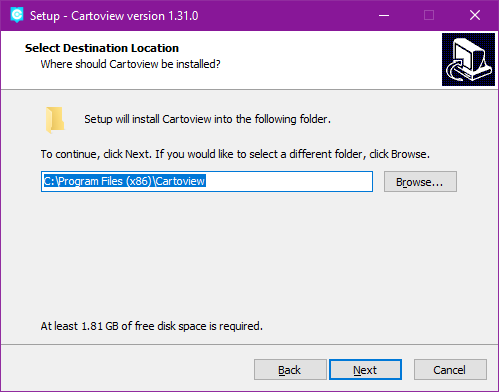
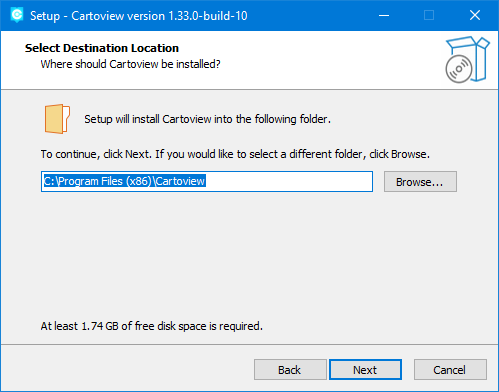
Update windows installer docs

Changed region(s): [[0.0, 0.0, 1.0, 1.0], [0.0902, 0.2449, 0.1503, 0.3673], [0.1804, 0.7959, 0.2104, 0.8571]]

diff --git a/docs/installation/windows-installer.md b/docs/installation/windows-installer.md
@@ -15,16 +15,30 @@ The installer can be requested and downloaded from [here](https://cartoview.net/
 
 You just need to provide your information, select a version of Cartoview to download, and you should get an e-mail with the installer download link.
 
-!!! note
-    It's recommended to stick with the latest version which is selected by default.
-
-Download the installer on your Windows machine. You should get an executable file like that, **Cartoview_1.31.0.exe**.
+Download the installer on your Windows machine. You should get an executable file like that, **Cartoview_1.33.0.exe**.
 
 ### Installer Steps
 Proceed with the steps to install and run Cartoview.
 
 !!! note
     It's recommended to stick with the default configurations during this installation but feel free to make changes according to your needs.
+
+Specify whether to use the database with **Express** mode which installs and runs PostgreSQL on the fly or **Advanced** mode which uses an already running instance of PostgreSQL on your machine.
+
+!!! note
+    If you select the **Advanced** mode, you will be required to provide the installation directory of PostgreSQL on your machine, the credentials and databases names.
+
+    ![Current running PostgreSQL directory](../img/installation/Installer/postgres-dir.png "Current running PostgreSQL directory")
+    
+    ![Current running PostgreSQL credentials](../img/installation/Installer/postgres-credentials.png "Current running PostgreSQL credentials")
+    
+    ![Cartoview Web Database](../img/installation/Installer/web-db.png "Cartoview Web Database")
+    
+    ![Cartoview GIS Database](../img/installation/Installer/gis-db.png "Cartoview GIS Database")
+
+We will stick with **Express** mode.
+
+![DB Mode](../img/installation/Installer/db-mode.png "DB Mode")
 
 Specify whether you want to use a **domain name** (e.g. localhost, example.com) or an **IP** (e.g. 192.168.10.1). We will stick with the default **domain name** to run on localhost.
 
@@ -40,14 +54,6 @@ PostgreSQL Port: Database port.
 ```
 
 ![Server Details](../img/installation/Installer/server-details.png "Server Details")
-
-Specify whether to use the database with **Express** mode which installs and runs PostgreSQL on the fly or **Advanced** mode which uses a running instance of PostgreSQL.
-
-If you select the **Advanced** mode, you will be required to provide the installation directory of PostgreSQL on your machine, the credentials and databases names.
-
-We will stick with **Express** mode.
-
-![DB Mode](../img/installation/Installer/db-mode.png "DB Mode")
 
 Select location of installation on your machine.
 
@@ -78,13 +84,19 @@ And the [Admin](http://localhost:4040/docs/admin.html) page.
 
 Congratulations! Cartoview is now installed successfully.
 
-You can upload layers, create maps, and install Cartoview apps to visualize these maps.
+You can upload layers, create maps, and interact with the pre-installed Cartoview apps to visualize these maps.
+
+### Cartoview Apps
+
+Once Cartoview is installed, You can navigate to the [apps](http://localhost:4040/cv_apps/) page and explore the available pre-installed apps.
+
+![Cartoview Apps](../img/installation/Installer/apps.png "Cartoview Apps")
 
 ### Install Apps
 
-Once Cartoview is installed, You can navigate to [http://localhost:4040/apps/](http://localhost:4040/apps/) to check and install all available apps from the [App Store](https://appstore.cartoview.net/).
+Once Cartoview is installed, You can navigate to the [Manage Apps](http://localhost:4040/cv_apps/manage/) to check and install all available apps from the [App Store](https://appstore.cartoview.net/).
 
-After installing any app, you may need to restart the running **Apache Windows service** if you can't see your app in `/apps`.
+After installing any app, you may need to restart the running **Apache Windows service** if you can't see your app in the apps page.
 
 ![Services](../img/installation/Installer/services.png "Services")
 
